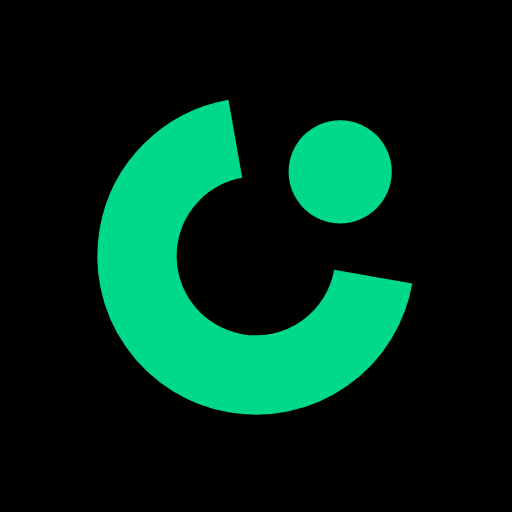
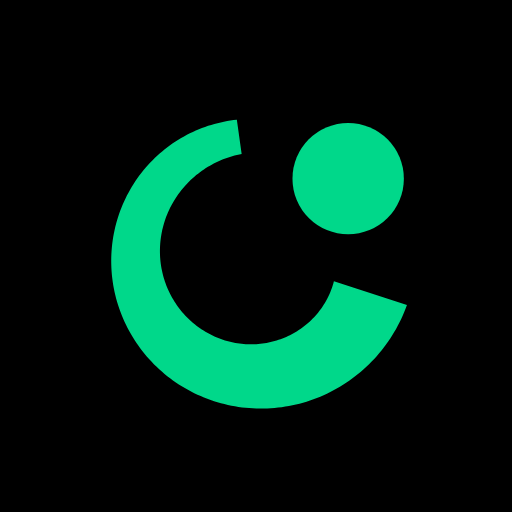
Symbole affiné : arc fuselé, pour sortir du signe générique
Le mark était propre mais par défaut : un arc d'épaisseur constante est
la forme que n'importe qui obtient sans décider. Trois pistes testées,
puis mesurées plutôt que jugées à l'œil.

Le test qui tranche : l'écart en pixels entre le bord du point et le bec
de l'arc, à 20 px de rendu. Sous ~1 px, les deux formes fusionnent et
l'idée même du mark (le manque, puis la pièce qui le comble) disparaît.

  A  arc régulier          écart  1.04  ->  passe, mais générique
  B  fuselé simple         écart -0.64  ->  fusionne
  C  ouverture resserrée   écart -1.80  ->  fusionne franchement
  D  fuselé + resserré     écart -2.89  ->  pire, et le biseau se lisait
                                            comme un défaut, pas un choix

La tension par resserrement (C) est donc à écarter : elle rend le
symbole plus expressif en grand et le détruit en petit.

Retenu : B affiné, paramètres résolus par recherche sous contrainte de
lisibilité — ouverture 116°, trait fuselé de 0.150 à 0.0675 (rapport
0.45), point à 1.45x. Écart 1.25 px à 20 px sur le logo inline et
1.06 px à 24 px sur l'icône système : les deux cadrages passent.

Le fuselage est ce qui rend le signe propriétaire : une épaisseur qui
varie est une décision visible, là où un trait constant est un réglage
par défaut. Le sens reste intact — l'arc s'amincit en approchant du
vide, et le point vient renforcer précisément là où le groupe faiblit.

logo.png, icon-512.png et le symbole de og-image.jpg régénérés depuis le
[…]

diff --git a/sw.js b/sw.js
@@ -1,4 +1,4 @@
-const CACHE = 'cs5-v67';
+const CACHE = 'cs5-v68';
 const PRECACHE = ['./','./index.html','./manifest.json','./icon-512.png','./logo.png','./og-image.jpg','./art-bolt.png','./art-goal.png','./art-player.png','./art-empty-histo.png','./art-empty-amis.png','./art-empty-vestiaire.png','./art-podium.png'];
 
 self.addEventListener('install', e => {
